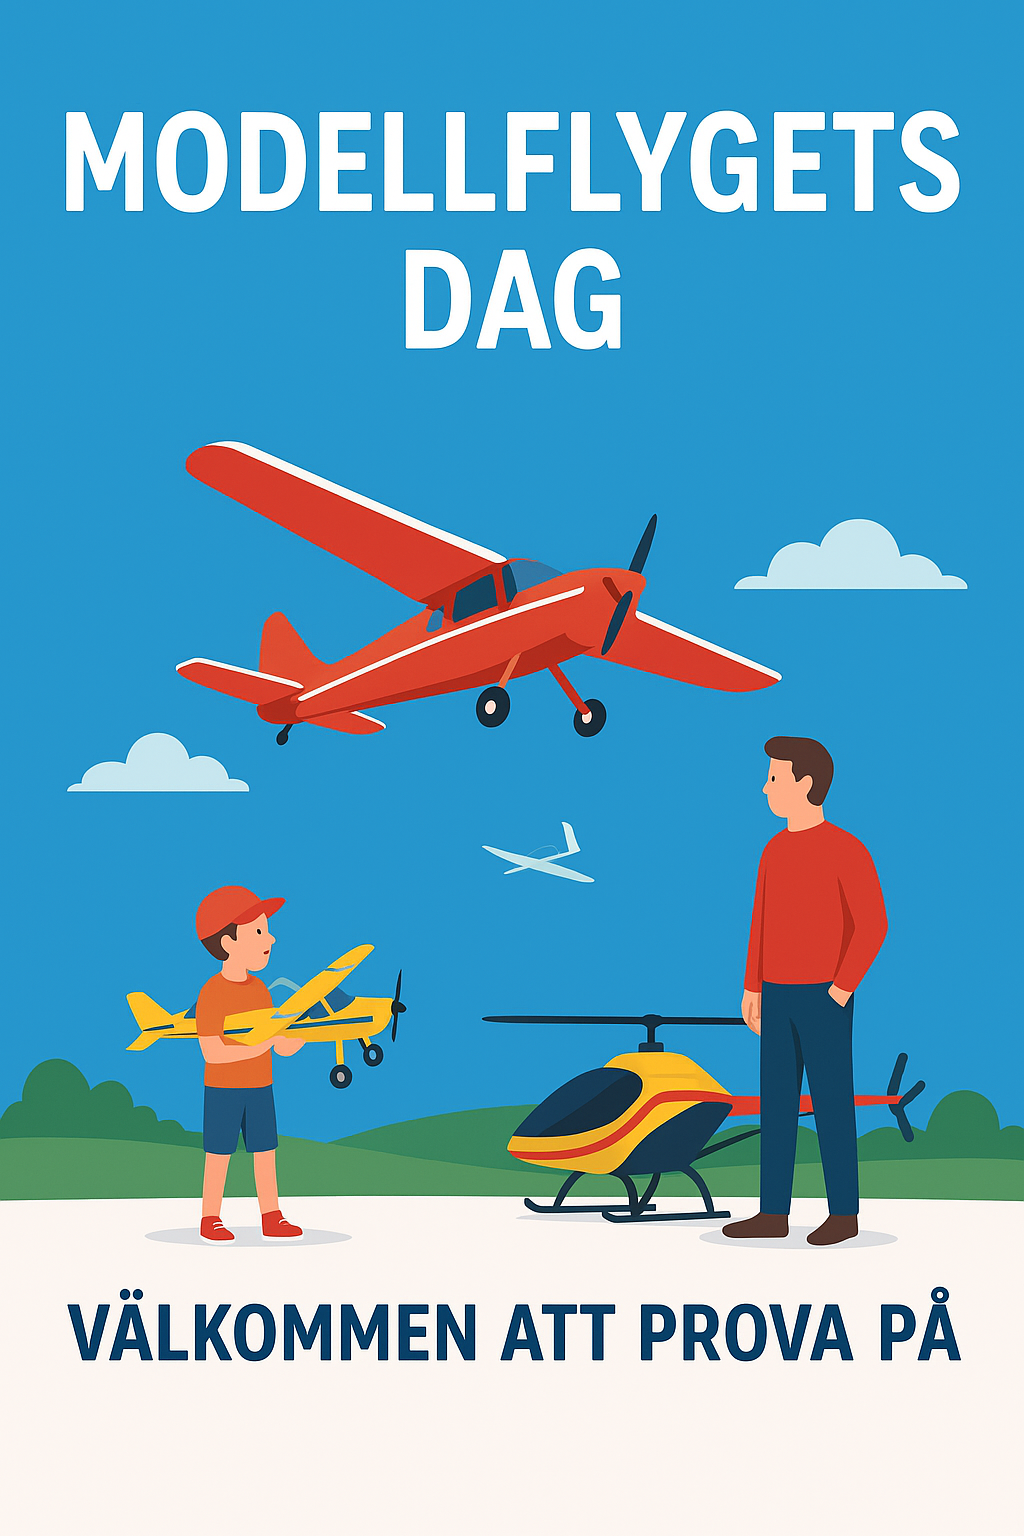
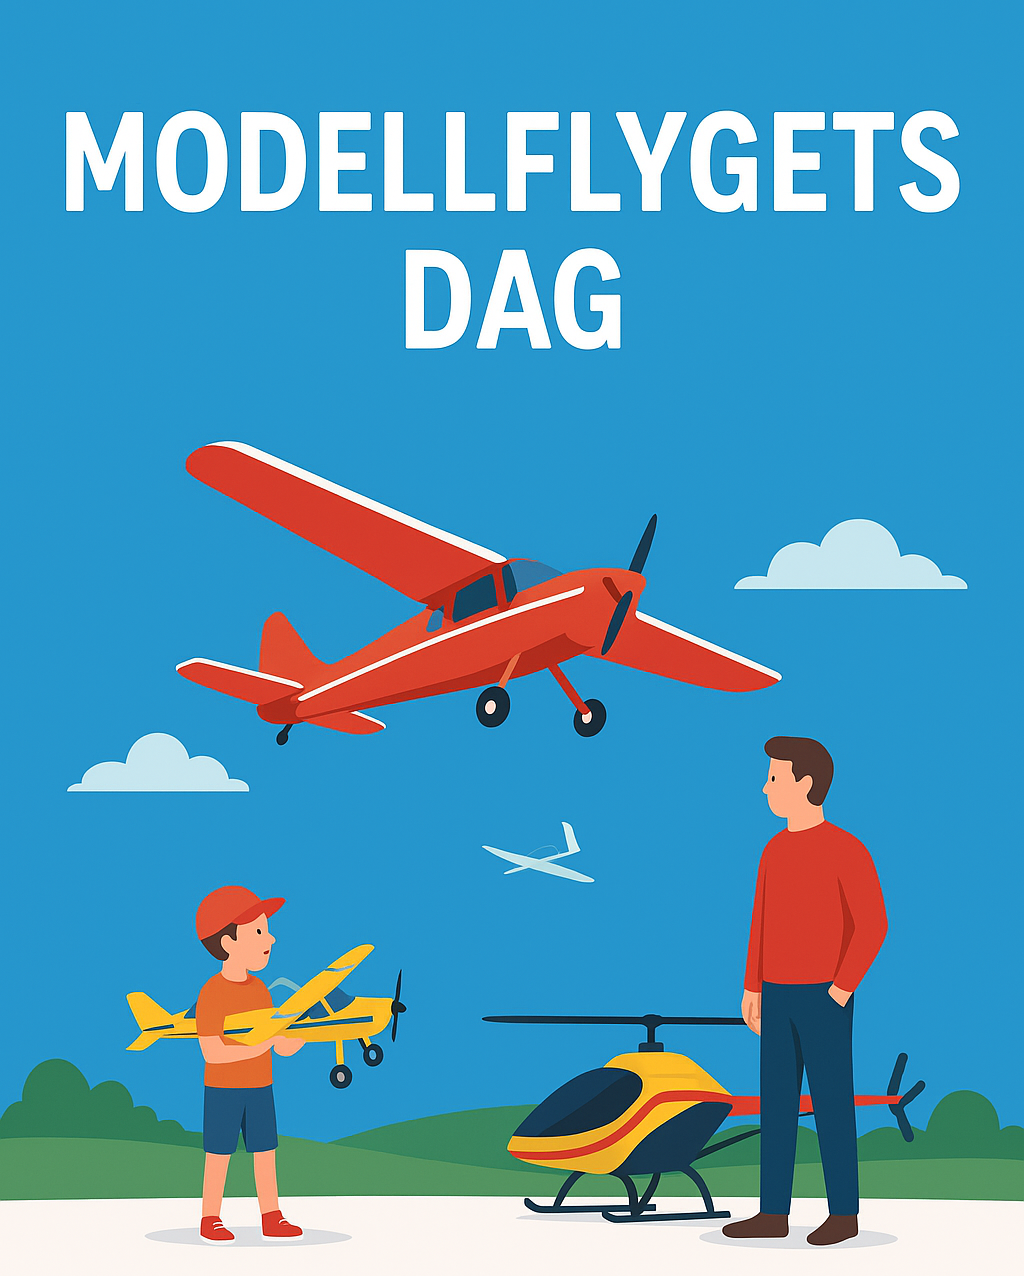
1V0 6

diff --git a/borja/butiker.html b/borja/butiker.html
@@ -1,0 +1,103 @@
+<!doctype html>
+<html lang="sv">
+<head>
+  <meta charset="utf-8">
+  <meta name="viewport" content="width=device-width, initial-scale=1">
+  <title>Butiker</title>
+  <link href="https://cdn.jsdelivr.net/npm/bootstrap@5.3.2/dist/css/bootstrap.min.css" rel="stylesheet">
+  <link rel="stylesheet" href="../css/style.css">
+</head>
+<body>
+
+  <!-- Meny -->
+  <nav class="navbar navbar-expand-lg navbar-dark bg-secondary">
+    <div class="container">
+      <a class="navbar-brand" href="../index.html"><img src="../images/amf.png" alt="logo"></a>
+      <button class="navbar-toggler" type="button" data-bs-toggle="collapse" data-bs-target="#mainNav">
+        <span class="navbar-toggler-icon"></span>
+      </button>
+      <div class="collapse navbar-collapse" id="mainNav">
+	  <div class="amf">Sida är under uppbyggnad. Saknar menyer för att inte länkas ihop med färdiga sidor.</div>
+	  <div>
+    </div>
+  </nav>
+
+  <!-- Innehåll -->
+  <main class="container py-4">
+    <h2>Butiker</h2>
+	<p>Nedan finns ett urval av nätbutiker med eller utan fysisk butik. Sök också själv på nätet för det finns fler !</p>
+
+    <p style="text-indent: -3em; padding-left: 3em" class="amf">
+		Vill du har en länk till <b>din butik</b>? Hör då av dig, jag behöver veta;
+		<i>
+		<br>Någon kort text som utmärker eller hur ni vill marknadsföra er (tänk på att Aktivt modellflyg riktar sig mot nya personer in i vår hobby).
+		<br>Länken till nätbutiken. Om fysisk butik finns, ortens namn.
+		</i>
+	</p>
+	
+	
+    <h3>Nätbutiker i sverige</h3>
+	<ul>	
+	  <li>
+		<b>MBS RC Models</b> <a href="https://mbs-rcmodels.se/" target="_blank" rel="noopener noreferrer">Till nätbutiken</a>
+		<br>Butik: <b>Herrljunga</b>
+		<br>Kommentar saknas
+	  </li>
+
+	  <li>
+		<b>RC Flight</b> <a href="https://www.rcflight.se/" target="_blank" rel="noopener noreferrer">Till nätbutiken</a>
+		<br>Butik: <b>Skövde</b>
+		<br>Kommentar saknas
+	  </li>
+
+	  <li>
+		<b>Servoexperten</b> <a href="https://servoexperten.se/" target="_blank" rel="noopener noreferrer">Till nätbutiken</a>
+		<br><i>Text kopierad från hemsidan:</i> Vi är Svensk importör för Hitec servon, Extreme Flight, Flex Innovations, Radiomaster, OMP Hobby, Sunnysky motorer, KST servon, T-Hobby och Secraft.
+		<br>Vi är också återförsäljare för Hacker, Kavan, FMS, Sebart, Multiplex, Emax, GensAce, Tattu, Hobbywing, RC Factory, Falcon propellrar, APC propellrar, XOAR propellrar, Savöx, Theta servon, Jeti, Secraft mfl.
+	  </li>
+
+
+	  <li>
+		<b>ML Hobby</b> <a href="https://mlhobby.com/" target="_blank" rel="noopener noreferrer">Till nätbutiken</a>
+		<br>Butik: <b>Lund</b>
+		<br><i>Text kopierad från hemsidan:</i> Vi är ett företag som importerar och säljer flygplan och tillbehör med bra kvalitet.
+		    Vår butik och lager finns i Lund på Svärdgränden 6 och varorna till dig levereras med Posten eller DHL.
+			Vi jobbar även med verkliga lagersaldon för att göra dina beställningar enklare och snabbare.
+			Om varan inte finns i lager så kan du kontakta oss för leveransbesked.
+	  </li>
+
+	  <li>
+		<b>AutoPartner</b> <a href="https://www.autopartner.se/" target="_blank" rel="noopener noreferrer">Till nätbutiken</a>
+		<br><i>Text kopierad från hemsidan:</i> Vi är din pålitliga partner när det kommer till radiostyrda bilar, båtar, helikoptrar och mycket mer.
+	  </li>
+
+	  <li>
+		<b>Skåne Hobby</b> <a href="https://skanehobby.se/" target="_blank" rel="noopener noreferrer">Till nätbutiken</a>
+		<br>Butik: <b>Flädje</b>
+		<br>Kommentar saknas
+	  </li>
+	</ul>
+	
+    <h3>Nätbutiker utlandet</h3>
+	<ul>
+	   <li>
+		<b>EleFun (Norge)</b> <a href="https://www.elefun.se/" target="_blank" rel="noopener noreferrer">Till nätbutiken</a>
+		<br><i>Aktivt modellflygs kommentar:</i> Omfattande utbud av modelltyper (FPV, Quad, Flygplan, Helikopter) och många radiomärken mm. 
+	  </li>
+
+	  <li>
+		<b>Hobbyking (Kina med EU-lager)</b> <a href="https://hobbyking.com/" target="_blank" rel="noopener noreferrer">Till nätbutiken</a>
+		<br><i>Välj EU-lager för enklare hantering av frakt och det är då inte import.</i>
+		<br><i>Aktivt modellflygs kommentar:</i> Produkter till lägre pris
+	  </li>
+	</ul>
+
+  </main>
+
+  <footer class="bg-secondary text-white text-center py-3 mt-4">
+    Vi ska ha kul tillsammans - En aktiv hobby i luften under RCFF, SMFF eller med drönarkort
+  </footer>
+
+  <script src="https://cdn.jsdelivr.net/npm/bootstrap@5.3.2/dist/js/bootstrap.bundle.min.js"></script>
+</body>
+</html>

diff --git a/download/dl_mfd.html b/download/dl_mfd.html
@@ -107,7 +107,7 @@
     <hr>
 	
 	<h3>Några bilder till eget material</h3>
-	<p><i>Högerklicka på bilden och välj "spara som" med din webbläsare</i></p>
+	<p><i>Föra att ladda ned. Tryck "öppna i eget fönster" så får du samma bild men i högre upplösning. Högerklicka på bilden och välj "spara som" med din webbläsare.</i></p>
 	
     <div class="row mt-3">
 		<div class="col-md-3 mb-3">
@@ -116,7 +116,7 @@
 			    <b>Bild 1</b> Enkel och ren bild.<br><i>Klipp bort texten under om den inte passar.</i>
 				<br><a href="dl_mfd/amf_mfd_enkel_1.png" target="_blank" rel="noopener noreferrer">Öppna i eget fönster</a>
 			  </p>
-			  <br><img src="dl_mfd/amf_mfd_enkel_1.png" alt="Modellflygets dag Enkel bild." width="100%">
+			  <br><img src="dl_mfd/amf_mfd_enkel_1_w270.jpg" alt="Modellflygets dag Enkel bild." width="100%">
 			</div>
 		</div>
 
@@ -126,7 +126,7 @@
 			    <b>Bild 2</b> Kollage - Bred hobby.<br><i>Går även att klipp ut en del av bilder om helheten blir komplex.</i>
 				<br><a href="dl_mfd/amf_mfd_kollage_1.png" target="_blank" rel="noopener noreferrer">Öppna i eget fönster</a>
 			  </p>
-			  <br><img src="dl_mfd/amf_mfd_kollage_1.png" alt="Modellflygets dag Kollage bild." width="100%">
+			  <br><img src="dl_mfd/amf_mfd_kollage_1_w270.jpg" alt="Modellflygets dag Kollage bild." width="100%">
 			</div>
 		</div>
 
@@ -136,7 +136,7 @@
 			    <b>Bild 3</b> Gemenskap och utvecklas.<br><i>Går även att klipp ut en del av bilder om den inte passar.</i>
 				<br><a href="dl_mfd/amf_mfd_gemenskap_1.png" target="_blank" rel="noopener noreferrer">Öppna i eget fönster</a>
 			   </p>
-			  <br><img src="dl_mfd/amf_mfd_gemenskap_1.png" alt="Modellflygets dag Gemenskap." width="100%">
+			  <br><img src="dl_mfd/amf_mfd_gemenskap_1_w270.jpg" alt="Modellflygets dag Gemenskap." width="100%">
 			</div>
 		</div>
 
@@ -146,7 +146,7 @@
 			    <b>Bild 4</b> Publik - Flyguppvisning.<br><i>Förslag: Presentera ert flygprogram med hålltider samt modell information.</i>
 				<br><a href="dl_mfd/amf_mfd_publik_1.png" target="_blank" rel="noopener noreferrer">Öppna i eget fönster</a>
 			  </p>
-			  <br><img src="dl_mfd/amf_mfd_publik_1.png" alt="Modellflygets dag Publik." width="100%">
+			  <br><img src="dl_mfd/amf_mfd_publik_1_w270.jpg" alt="Modellflygets dag Publik." width="100%">
 			</div>
 		</div>
 
@@ -157,7 +157,7 @@
 			    <br><i>Förslag: Gör en A4 med information om hur det går till hos er för att prova på och sätt upp denna som affisch.</i>
 				<br><a href="dl_mfd/amf_mfd_dk_1.png" target="_blank" rel="noopener noreferrer">Öppna i eget fönster</a>
 			  </p>
-			  <br><img src="dl_mfd/amf_mfd_dk_1.png" alt="Modellflygets dag Dubbelkommando." width="100%">
+			  <br><img src="dl_mfd/amf_mfd_dk_1_w270.jpg" alt="Modellflygets dag Dubbelkommando." width="100%">
 			</div>
 		</div>
 
@@ -168,7 +168,7 @@
 				<br><i>Förslag: Gör en A4 med priser och mat och skriv ut denna till en affisch.</i>
 				<br><a href="dl_mfd/amf_mfd_mat_1.png" target="_blank" rel="noopener noreferrer">Öppna i eget fönster</a>
 			  </p>
-			  <br><img src="dl_mfd/amf_mfd_mat_1.png" alt="Modellflygets dag Mat." width="100%">
+			  <br><img src="dl_mfd/amf_mfd_mat_1_w270.jpg" alt="Modellflygets dag Mat." width="100%">
 			</div>
 		</div>
 
@@ -195,16 +195,16 @@
 		<div class="col-md-4 mb-4">
 			<div class="p-3 bg-light shadow rounded">
 			  <p><b>PDF 1</b> Att börja guide med QR-kod till video.
-			  <br><a href="dl_mfd/QR_Guide.pdf">Öppna som PDF</a>
-			  <br><br><img src="dl_mfd/qr_guide.png" alt="Modellflygets dag Guide med QR-kod." width="100%">
+			  <br><a href="dl_mfd/QR_Guide.pdf" target="_blank" rel="noopener noreferrer">Öppna som PDF i eget fönster</a>
+			  <br><br><img src="dl_mfd/qr_guide_w350.jpg" alt="Modellflygets dag Guide med QR-kod." width="100%">
 			</div>
 		</div>
 
 		<div class="col-md-4 mb-4">
 			<div class="p-3 bg-light shadow rounded">
-			  <p><b>PDF 2</b> Vinter - Inomhusflyg
-			  <br><a href="dl_mfd/QR_Inomhusflyg.pdf">Öppna som PDF</a>
-			  <br><br><img src="dl_mfd/qr_inomhusflyg.png" alt="Modellflygets dag Inomhusflyg med QR-kod." width="100%">
+			  <p><b>PDF 2</b> Vinter - Inomhusflyg med QR-kod till video.
+			  <br><a href="dl_mfd/QR_Inomhusflyg.pdf" target="_blank" rel="noopener noreferrer">Öppna som PDF i eget fönster</a>
+			  <br><br><img src="dl_mfd/qr_inomhusflyg_w350.jpg" alt="Modellflygets dag Inomhusflyg med QR-kod." width="100%">
 			</div>
 		</div>
 
